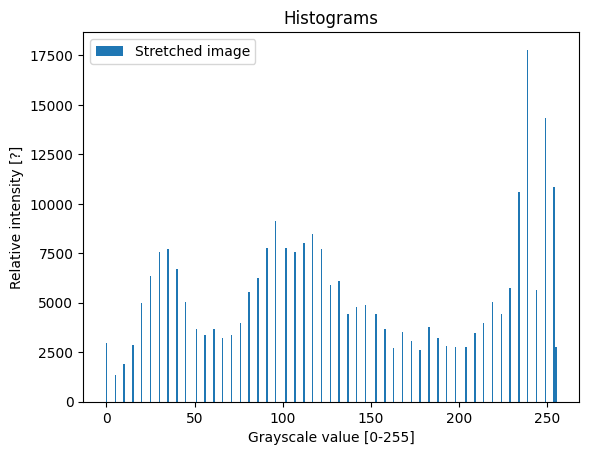
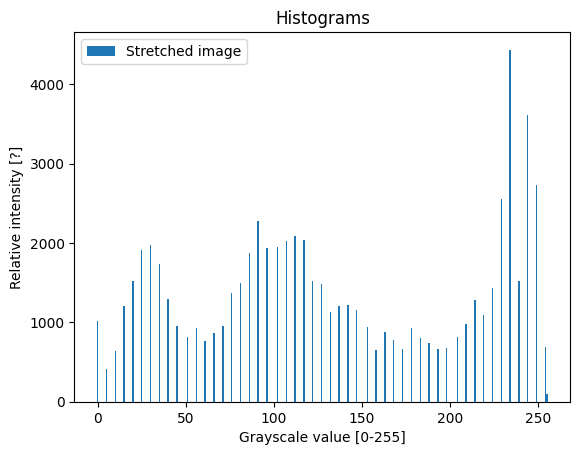
Redone for Stokkings

Changed region(s): [[0.0, 0.0615, 0.9931, 0.9846], [0.4655, 0.0, 0.6517, 0.0615], [0.0, 0.5846, 0.031, 0.6154]]

diff --git a/main.py b/main.py
@@ -10,7 +10,143 @@
 
 from util import image_manipulation_functions as im
 import cv2
+import numpy as np
 import matplotlib.pyplot as plt
+
+def main():
+    #Testing the camera
+    # print("Taking picture...")
+    # try:
+    #     cap = cv2.VideoCapture(0)
+    #     camSucces, imgCam = cap.read()
+    # except:
+    #     print("Picture could not be taken.")
+    #     camSuccess = False
+    #
+    # if camSuccess:
+    #     cv2.imshow("Camera output", imgCam)
+    #     cv2.imwrite("Output/cameraPicture.png", imgCam)
+    #     cv2.waitKey(0)
+
+
+    #importing the foggy street picture
+    img = cv2.imread("Resources/foggyPicture.PNG", 0)
+    img = cv2.resize(img, (int(img.shape[1]/2), int(img.shape[0]/2)))
+
+
+    """
+    Histogram function
+    """
+
+    def gray_histo(img):
+        """
+        This function creates a histogram of a grayscaled picture
+
+        :param img: image matrix
+        :return: list of nr of pixels at each value between 0 and 255
+        """
+        width = img.shape[1]
+        height = img.shape[0]
+
+        histo = [0 for i in range(0, 256)]
+
+        # now a double for-loop, to loop across all pixels of the picture
+        for y in range(0, height):
+            for x in range(0, width):
+                # ok, so indexed in the actual image matrix, height comes first.
+                # if printVal:
+                #     print("Pixel at pos", [x, y], "has a value of ", img[y, x], ".")
+                histo[img[y, x]] += 1
+
+        return histo
+
+    histo = gray_histo(img)
+
+    x_axis = np.array([i for i in range(256)])
+
+    plt.bar(x_axis, histo, label="Original histogram")
+    plt.title('Histogram')
+    plt.xlabel('Grayscale value [0-255]')
+    plt.ylabel('Relative intensity [?]')
+    plt.legend()
+    plt.savefig("Output/Histogram_beforeStretching.png", bbox_inches='tight')
+
+    cv2.imshow("Original picture", img)
+    cv2.waitKey(10)
+
+    plt.show()
+
+
+
+    """
+    Stretching
+    """
+    def stretching(img, lowerbound, higherbound):
+        """
+        Stretches image by remapping values from [lowerbound, higherbound] to [0, 255]
+
+        :param img: grayscaled image
+        :param lowerbound: uint8
+        :param higherbound: uint8
+        :return: newImg
+        """
+
+        imgNew = np.zeros_like(img)
+
+        width = img.shape[1]
+        height = img.shape[0]
+
+        for y in range(height):
+            for x in range(width):
+                newValue = np.interp(img[y, x], [lowerbound, higherbound], [0, 255])
+
+                if newValue < 0:
+                    newValue = 0
+                if newValue > 255:
+                    newValue = 255
+
+                imgNew[y, x] = newValue
+
+        return imgNew
+
+    # lo = int(input("What is the lowerbound? [uint8]"))
+    # hi = int(input("What is the higherbound? [uint8]"))
+    lo, hi = 124, 175
+
+    imgStretched = stretching(img, lo, hi)
+
+    histoStretched = gray_histo(imgStretched)
+
+    plt.bar(x_axis, histoStretched, label="Stretched histogram")
+    plt.title('Histogram')
+    plt.xlabel('Grayscale value [0-255]')
+    plt.ylabel('Relative intensity [?]')
+    plt.legend()
+    plt.savefig("Output/Histogram_afterStretching.png", bbox_inches='tight')
+
+    cv2.imwrite("Output/stretched_foggyPicture.png", imgStretched)
+
+    cv2.imshow("Original picture", img)
+    cv2.imshow("Stretched picture", imgStretched)
+    cv2.waitKey(10)
+
+    plt.show()
+
+    #showing both histograms in one figure.
+    plt.bar(x_axis, histoStretched, label='Stretched image')
+    plt.bar(x_axis, histo, label='(original) grayscaled image')
+
+    plt.title('Histograms')
+    plt.xlabel('Grayscale value [0-255]')
+    plt.ylabel('Relative intensity [?]')
+    plt.legend()
+
+    plt.savefig("Output/Histograms_combined.png", bbox_inches='tight')
+    plt.show()
+
+    print("Thank you for running this demo.")
+
+    pass
 
 def query_resize(imgOrig):
     smallerPic = input("Would you like to resize the picture to be smaller? [y/n]")
@@ -34,7 +170,7 @@ def takePicture():
         print("Picture could not be taken.")
         return False, None
 
-def main():
+def main2():
     print("Importing picture...")
     imgOrig = cv2.imread("Resources/foggyPicture.PNG")
     camSuccess, imgCam = takePicture()
